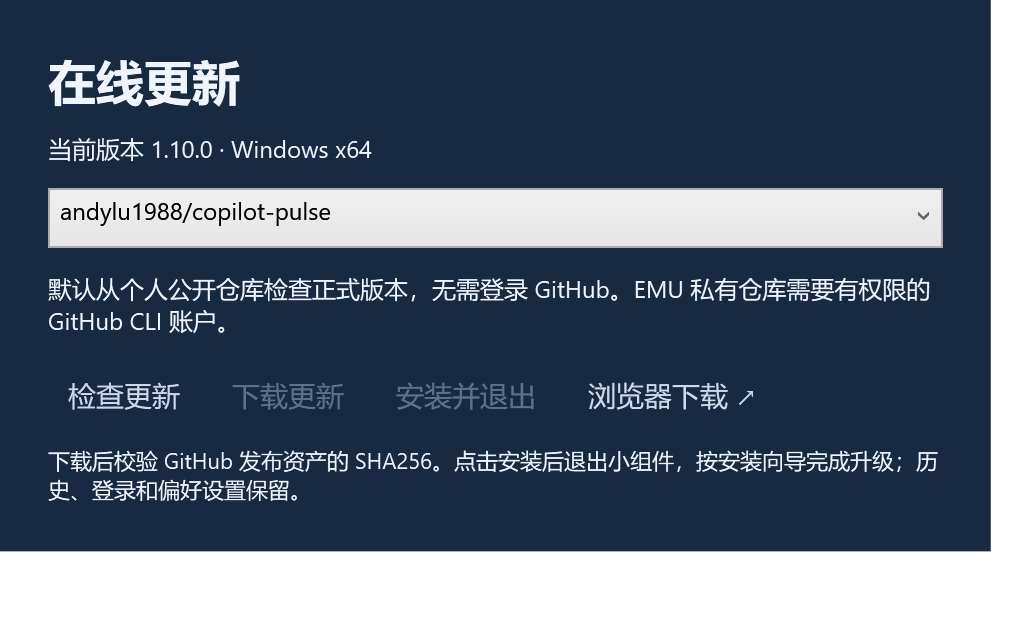
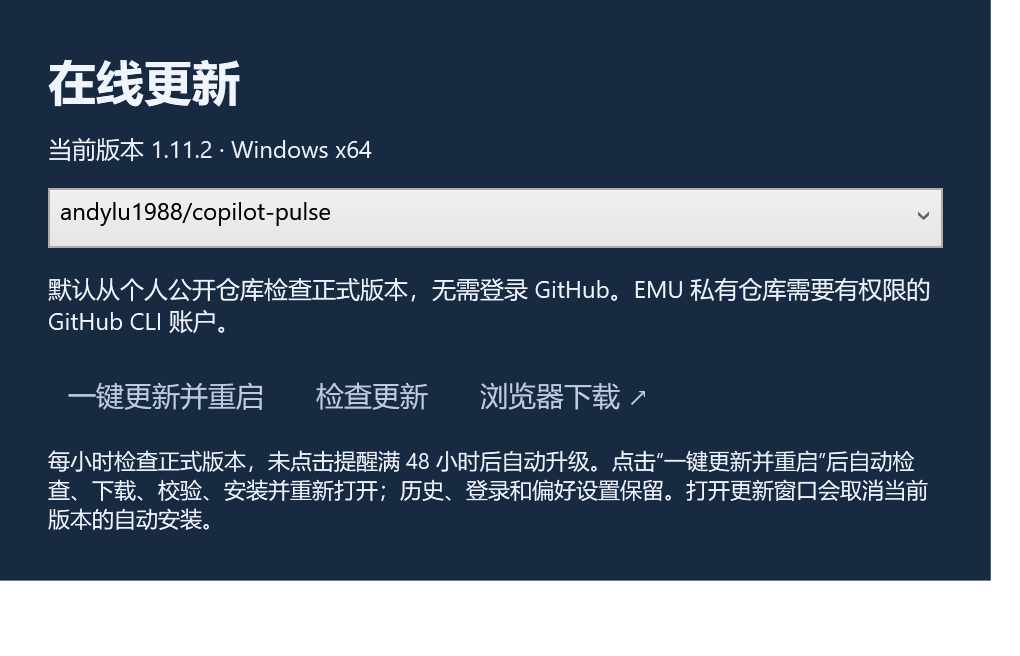
Fix runtime version and complete updates in one click

diff --git a/UpdateWindow.cs b/UpdateWindow.cs
@@ -1,71 +1,122 @@
 using System;
 using System.Diagnostics;
 using System.Threading;
+using System.Threading.Tasks;
+using System.IO;
 using System.Windows;
 using System.Windows.Controls;
 using System.Windows.Media;
 
 namespace CopilotPulse;
 
+internal sealed record UpdateActions(
+    Func<string, CancellationToken, Task<UpdateRelease?>> Check,
+    Func<UpdateRelease, CancellationToken, Task<string>> Download,
+    Func<string, UpdateRelease, Task> Apply,
+    Action Complete);
+
 internal sealed class UpdateWindow : Window
 {
     private readonly UpdateService service = new();
     private readonly CancellationTokenSource cancel = new();
     private readonly TextBlock status = new() { TextWrapping = TextWrapping.Wrap, Margin = new Thickness(0,12,0,12) };
-    private readonly Button check = new(), download = new(), install = new();
+    private readonly Button check = new(), install = new();
+    private readonly ComboBox repo;
+    private readonly UpdateActions actions;
+    private bool busy, applying;
+    internal Task? PendingUpdate { get; private set; }
     private UpdateRelease? release;
     private string? installer;
     private readonly Preferences preferences;
-    internal UpdateWindow(Preferences preferences, UpdateRelease? initialRelease = null, string? initialInstaller = null)
+    internal UpdateWindow(Preferences preferences, UpdateRelease? initialRelease = null, string? initialInstaller = null, UpdateActions? actions = null)
     {
         this.preferences = preferences;
+        this.actions = actions ?? new UpdateActions(service.CheckAsync, service.DownloadAsync,
+            (path, available) => UpdateHandoff.LaunchAsync(path, available), () => Application.Current.Shutdown());
         Title = UiText.T("Copilot Pulse · 在线更新", "Copilot Pulse · Online updates"); Icon = BrandIcon.Window;
         Width = 510; SizeToContent = SizeToContent.Height; ResizeMode = ResizeMode.NoResize; WindowStartupLocation = WindowStartupLocation.CenterOwner;
         SetResourceReference(BackgroundProperty, "SkinPanel"); SetResourceReference(ForegroundProperty, "SkinText");
         var body = new StackPanel { Margin = new Thickness(24) }; Content = body;
         body.Children.Add(new TextBlock { Text = UiText.T("在线更新", "Online updates"), FontSize = 24, FontWeight = FontWeights.SemiBold });
         body.Children.Add(new TextBlock { Text = UiText.T($"当前版本 {UpdatePolicy.Current} · Windows x64", $"Current version {UpdatePolicy.Current} · Windows x64"), Margin = new Thickness(0,10,0,12) });
-        var repo = new ComboBox { ItemsSource = new[] { "andylu1988/copilot-pulse", "andylu_microsoft/copilot-pulse" }, SelectedIndex = preferences.UpdateRepository == "andylu_microsoft/copilot-pulse" ? 1 : 0, Background = Brushes.White, Foreground = Brushes.Black, MinHeight = 30 };
+        repo = new ComboBox { ItemsSource = new[] { "andylu1988/copilot-pulse", "andylu_microsoft/copilot-pulse" }, SelectedIndex = preferences.UpdateRepository == "andylu_microsoft/copilot-pulse" ? 1 : 0, Background = Brushes.White, Foreground = Brushes.Black, MinHeight = 30 };
         body.Children.Add(repo);
-        repo.SelectionChanged += (_, _) => { preferences.UpdateRepository = (string)repo.SelectedItem; if (!App.Demo && !App.Smoke) Store.Write("preferences.json", preferences); release = null; installer = null; download.IsEnabled = false; install.IsEnabled = false; status.Text = UiText.T("请选择检查更新。", "Select Check for updates."); };
+        repo.SelectionChanged += (_, _) => { preferences.UpdateRepository = (string)repo.SelectedItem; if (!App.Demo && !App.Smoke) Store.Write("preferences.json", preferences); release = null; installer = null; install.IsEnabled = true; status.Text = UiText.T("请选择检查更新。", "Select Check for updates."); };
         body.Children.Add(status);
         status.Text = UiText.T("默认从个人公开仓库检查正式版本，无需登录 GitHub。EMU 私有仓库需要有权限的 GitHub CLI 账户。", "Checks stable releases from the public personal repository without GitHub sign-in. The private EMU mirror needs an authorized GitHub CLI account.");
         var buttons = new WrapPanel(); body.Children.Add(buttons);
         void Add(Button button, string zh, string en) { button.Content = UiText.T(zh,en); button.Padding = new Thickness(10,8,10,8); button.Margin = new Thickness(0,0,6,8); buttons.Children.Add(button); }
-        Add(check,"检查更新","Check for updates"); Add(download,"下载更新","Download"); Add(install,"安装并重启","Install and restart");
-        download.IsEnabled = install.IsEnabled = false;
+        Add(install,"一键更新并重启","Update and restart"); Add(check,"检查更新","Check for updates");
         var browser = new Button(); Add(browser,"浏览器下载 ↗","Browser download ↗");
         browser.Click += (_, _) => Process.Start(new ProcessStartInfo(UpdatePolicy.ReleasePage(preferences.UpdateRepository)) { UseShellExecute = true });
-        body.Children.Add(new TextBlock { Text = UiText.T("每小时检查正式版本，未点击提醒满 48 小时后自动升级。点击安装后保存并关闭小组件，安装完成自动重新打开；历史、登录和偏好设置保留。打开更新窗口会取消当前版本的自动安装。", "Checks hourly. Unopened notices install automatically after 48 hours. Install saves and closes the widget, verifies SHA256, then reopens it after setup. History, sign-in and preferences are retained. Opening updates cancels automatic installation for the current version."), FontSize = 11, TextWrapping = TextWrapping.Wrap });
+        body.Children.Add(new TextBlock { Text = UiText.T("每小时检查正式版本，未点击提醒满 48 小时后自动升级。点击“一键更新并重启”后自动检查、下载、校验、安装并重新打开；历史、登录和偏好设置保留。打开更新窗口会取消当前版本的自动安装。", "Checks hourly. Unopened notices install automatically after 48 hours. Update and restart checks, downloads and verifies SHA256, then silently installs and reopens the widget. History, sign-in and preferences are retained. Opening updates cancels automatic installation for the current version."), FontSize = 11, TextWrapping = TextWrapping.Wrap });
         check.Click += async (_, _) =>
         {
-            check.IsEnabled = repo.IsEnabled = download.IsEnabled = install.IsEnabled = false; release = null; installer = null;
-            status.Text = UiText.T("正在检查…","Checking…");
-            try { release = await service.CheckAsync(preferences.UpdateRepository, cancel.Token); if (!cancel.IsCancellationRequested) { status.Text = release == null ? UiText.T("当前已是最新正式版本。","You have the latest stable version.") : UiText.T($"新版本 {release.Version} 可用。", $"Version {release.Version} is available."); download.IsEnabled = release != null; } }
-            catch (Exception) { if (!cancel.IsCancellationRequested) status.Text = UiText.T("暂时无法检查：请确认网络、仓库访问权限及 GitHub CLI 登录账户，或点击浏览器下载。", "Unable to check. Verify network, repository access and GitHub CLI account, or use browser download."); }
-            finally { check.IsEnabled = repo.IsEnabled = true; }
+            if (busy) return;
+            SetBusy(true); release = null; installer = null;
+            status.Text = UiText.T("正在检查…", "Checking…");
+            try
+            {
+                release = await this.actions.Check(preferences.UpdateRepository, cancel.Token);
+                if (!cancel.IsCancellationRequested) status.Text = release == null
+                    ? UiText.T("当前已是最新正式版本。", "You have the latest stable version.")
+                    : UiText.T($"新版本 {release.Version} 可用，点击一键更新。", $"Version {release.Version} is available. Select Update and restart.");
+            }
+            catch (Exception) { if (!cancel.IsCancellationRequested) status.Text = UiText.T("检查失败，请检查网络或仓库权限后重试。", "Check failed. Verify network or repository access and retry."); }
+            finally { SetBusy(false); }
         };
-        download.Click += async (_, _) =>
-        {
-            if (release == null) return;
-            download.IsEnabled = check.IsEnabled = repo.IsEnabled = false; status.Text = UiText.T("正在下载并校验…", "Downloading and verifying…");
-            try { installer = await service.DownloadAsync(release, cancel.Token); if (!cancel.IsCancellationRequested) { status.Text = UiText.T("校验通过，点击安装开始升级。", "Verified. Select Install to upgrade."); install.IsEnabled = true; } }
-            catch (Exception) { if (!cancel.IsCancellationRequested) { status.Text = UiText.T("下载或校验失败，请重试或使用浏览器下载。", "Download or verification failed. Retry or use browser download."); download.IsEnabled = true; } }
-            finally { check.IsEnabled = repo.IsEnabled = true; }
-        };
-        install.Click += async (_, _) =>
-        {
-            if (installer == null || release == null) return;
-            install.IsEnabled = download.IsEnabled = check.IsEnabled = repo.IsEnabled = false;
-            try { await UpdateHandoff.LaunchAsync(installer, release); Application.Current.Shutdown(); }
-            catch (Exception) { status.Text = UiText.T("无法启动安装，请重新下载。", "Unable to launch installer. Download again."); check.IsEnabled = repo.IsEnabled = true; }
-        };
+        install.Click += (_, _) => PendingUpdate = UpdateAsync();
         if (initialRelease != null && initialRelease.Repository == UpdatePolicy.Repository(preferences.UpdateRepository))
         {
             release = initialRelease; installer = initialInstaller;
             status.Text = UiText.T($"新版本 {release.Version} 可用。", $"Version {release.Version} is available.");
-            download.IsEnabled = installer == null; install.IsEnabled = installer != null;
+            install.IsEnabled = true;
         }
+        Closing += (_, e) => { if (applying) e.Cancel = true; };
         Closed += (_, _) => cancel.Cancel();
+    }    private void SetBusy(bool value)
+    {
+        busy = value;
+        check.IsEnabled = repo.IsEnabled = install.IsEnabled = !value;
+    }
+    private async Task UpdateAsync()
+    {
+        if (busy) return;
+        SetBusy(true);
+        string phase = "check";
+        try
+        {
+            status.Text = UiText.T("正在检查最新版本…", "Checking the latest release…");
+            var latest = await actions.Check(preferences.UpdateRepository, cancel.Token);
+            if (cancel.IsCancellationRequested) return;
+            if (latest == null)
+            {
+                status.Text = UiText.T("当前已是最新正式版本，无需更新。", "You already have the latest stable version.");
+                return;
+            }
+            if (release != latest) installer = null;
+            release = latest;
+            phase = "download";
+            status.Text = UiText.T($"正在下载并校验 {latest.Version}…", $"Downloading and verifying {latest.Version}…");
+            if (installer == null || !File.Exists(installer)) installer = await actions.Download(latest, cancel.Token);
+            if (cancel.IsCancellationRequested) return;
+            phase = "install";
+            applying = true;
+            status.Text = UiText.T("即将安装并自动重启，请稍候…", "Installing and restarting automatically…");
+            await actions.Apply(installer, latest);
+            applying = false;
+            actions.Complete();
+        }
+        catch (Exception)
+        {
+            installer = null;
+            if (!cancel.IsCancellationRequested) status.Text = phase switch
+            {
+                "check" => UiText.T("检查失败，请检查网络或仓库权限后重试。", "Check failed. Verify network or repository access and retry."),
+                "download" => UiText.T("下载或校验失败，当前版本未修改。点击一键更新重试。", "Download or verification failed; your installed version is unchanged. Retry Update and restart."),
+                _ => UiText.T("无法启动安装，当前客户端保留。点击一键更新重试。", "Unable to start setup; the current client is retained. Retry Update and restart.")
+            };
+        }
+        finally { applying = false; SetBusy(false); }
     }
 }

diff --git a/UpdateHandoff.cs b/UpdateHandoff.cs
@@ -7,7 +7,7 @@ using System.Threading.Tasks;
 
 namespace CopilotPulse;
 
-internal sealed record UpdateTicket(int ParentId, DateTime ParentStartedUtc, string Application, string Installer, string Digest, string[] RestartArguments);
+internal sealed record UpdateTicket(int ParentId, DateTime ParentStartedUtc, string Application, string Installer, string Digest, string ExpectedVersion, string[] RestartArguments);
 
 internal static class UpdateHandoff
 {
@@ -21,7 +21,7 @@ internal static class UpdateHandoff
         await Task.Run(() => CopyRuntime(AppContext.BaseDirectory, stage));
         using var parent = Process.GetCurrentProcess();
         string ticketPath = Path.Combine(stage, "update-ticket.json");
-        File.WriteAllText(ticketPath, JsonSerializer.Serialize(new UpdateTicket(parent.Id, parent.StartTime.ToUniversalTime(), application, Path.GetFullPath(installer), release.Digest, reviewArguments ?? Array.Empty<string>())));
+        File.WriteAllText(ticketPath, JsonSerializer.Serialize(new UpdateTicket(parent.Id, parent.StartTime.ToUniversalTime(), application, Path.GetFullPath(installer), release.Digest, release.Version.ToString(), reviewArguments ?? Array.Empty<string>())));
         var start = new ProcessStartInfo(Path.Combine(stage, "CopilotPulse.exe")) { UseShellExecute = false, CreateNoWindow = true, WorkingDirectory = stage };
         start.ArgumentList.Add("--apply-update"); start.ArgumentList.Add(ticketPath);
         using var helper = Process.Start(start) ?? throw new IOException("Update helper unavailable.");
@@ -76,14 +76,23 @@ internal static class UpdateHandoff
             using var setup = Process.Start(start) ?? throw new IOException("Installer unavailable.");
             // Never kill a running installer or launch a client while files are being replaced.
             await setup.WaitForExitAsync();
-            File.WriteAllText(ticketPath + ".result", "setup-exit=" + setup.ExitCode);
+            if (setup.ExitCode != 0) throw new IOException("Installer exited with code " + setup.ExitCode);
+            if (!Version.TryParse(ticket.ExpectedVersion, out var expected) || !UpdatePolicy.InstalledVersionMatches(ticket.Application, expected))
+                throw new IOException("Installed version does not match the requested release.");
+            File.WriteAllText(ticketPath + ".installed-version", expected.ToString());
+            File.WriteAllText(ticketPath + ".result", "setup-exit=0");
             Restart(ticket.Application, ticket.RestartArguments);
-            return setup.ExitCode;
+            return 0;
         }
         catch (Exception exception)
         {
             try { File.WriteAllText(ticketPath + ".result", "update-failed=" + exception.GetType().Name); } catch { }
-            if (parentExited && ticket != null) { try { Restart(ticket.Application, ticket.RestartArguments); } catch { } }
+            if (parentExited && ticket != null)
+            {
+                try { Restart(ticket.Application, ticket.RestartArguments); } catch { }
+                if (ticket.RestartArguments.Length == 0) System.Windows.MessageBox.Show(
+                    UiText.T("更新未完成：安装失败或安装后的版本不匹配。客户端已重新打开，请重试在线更新。", "Update did not complete: setup failed or the installed version did not match. The client has reopened; please retry."), "Copilot Pulse");
+            }
             return 1;
         }
     }

diff --git a/MainWindow.SettingsReview.cs b/MainWindow.SettingsReview.cs
@@ -119,6 +119,29 @@ public partial class MainWindow
         updateWindow!.Close();
         var updateReview = new UpdateWindow(preferences) { Owner = this }; updateReview.Show(); await Task.Delay(120);
         CaptureControl(updateReview, Path.Combine(directory, "online-update.png")); updateReview.Close();
+        var expectedVersion = UpdatePolicy.NormalizeVersion(typeof(MainWindow).Assembly.GetName().Version!);
+        Check("local display matches actual application assembly", UpdatePolicy.Current == expectedVersion);
+        var events = new List<string>();
+        var candidate = new UpdateRelease(new Version(1,12,0), "v1.12.0", preferences.UpdateRepository, "review.exe", "", "");
+        var reviewPath = Path.Combine(directory, "review-download.bin");
+        var steps = new UpdateActions(
+            (_, _) => { events.Add("check"); return Task.FromResult<UpdateRelease?>(candidate); },
+            (_, _) => { events.Add("download"); File.WriteAllText(reviewPath,"demo"); return Task.FromResult(reviewPath); },
+            (_, _) => { events.Add("install"); return Task.CompletedTask; },
+            () => events.Add("restart"));
+        var oneClick = new UpdateWindow(preferences, actions: steps) { Owner = this }; oneClick.Show();
+        var oneButton = Nodes<Button>(oneClick).Single(b => b.Content?.ToString() == "一键更新并重启");
+        oneButton.RaiseEvent(new RoutedEventArgs(Button.ClickEvent)); await oneClick.PendingUpdate!;
+        Check("single click checks downloads installs and restarts in order", string.Join(",",events) == "check,download,install,restart");
+        Check("old separate download button removed", !Nodes<Button>(oneClick).Any(b => b.Content?.ToString() == "下载更新"));
+        oneClick.Close(); events.Clear();
+        var latest = new UpdateWindow(preferences, actions: steps with { Check = (_,_) => Task.FromResult<UpdateRelease?>(null) }) {Owner=this}; latest.Show();
+        Nodes<Button>(latest).Single(b => b.Content?.ToString() == "一键更新并重启").RaiseEvent(new RoutedEventArgs(Button.ClickEvent)); await latest.PendingUpdate!;
+        Check("already current does not download or restart", events.Count == 0 && Texts(latest).Any(t => t.Contains("无需更新"))); latest.Close();
+        var failed = new UpdateWindow(preferences, actions: steps with { Download = (_,_) => Task.FromException<string>(new IOException("review")) }) {Owner=this}; failed.Show();
+        var retryButton=Nodes<Button>(failed).Single(b => b.Content?.ToString() == "一键更新并重启");
+        retryButton.RaiseEvent(new RoutedEventArgs(Button.ClickEvent)); await failed.PendingUpdate!;
+        Check("download failure retains client and permits retry", !events.Contains("install") && retryButton.IsEnabled && Texts(failed).Any(t=>t.Contains("当前版本未修改"))); failed.Close();
         Check("About exists in three-dot menu", BuildSettingsMenu().Items.OfType<MenuItem>().Any(i => i.Header?.ToString() == "关于…"));
         bool acknowledgedBeforeAbout = updateState.Acknowledged;
         OpenAbout(); await aboutWindow!.CheckLatestAsync(); await Task.Delay(100);

diff --git a/UpdateService.cs b/UpdateService.cs
@@ -15,7 +15,15 @@ public sealed record UpdateRelease(Version Version, string Tag, string Repositor
 
 public static class UpdatePolicy
 {
-    public static readonly Version Current = new(1, 11, 0);
+    public static readonly Version Current = NormalizeVersion(typeof(UpdatePolicy).Assembly.GetName().Version ?? throw new InvalidOperationException("Application version unavailable."));
+    public static Version NormalizeVersion(Version version) => new(version.Major, version.Minor, Math.Max(0, version.Build));
+    public static bool InstalledVersionMatches(string application, Version expected)
+    {
+        string library = Path.Combine(Path.GetDirectoryName(application)!, "CopilotPulse.dll");
+        if (!File.Exists(library)) return false;
+        var info = FileVersionInfo.GetVersionInfo(library);
+        return NormalizeVersion(new Version(info.FileMajorPart, info.FileMinorPart, info.FileBuildPart)) == NormalizeVersion(expected);
+    }
     public static string Repository(string value) => value == "andylu_microsoft/copilot-pulse" ? value : "andylu1988/copilot-pulse";
     public static string ReleasePage(string repository) => "https://github.com/" + Repository(repository) + "/releases/latest";
     public static UpdateRelease? Parse(string json, string repository, Version current)
@@ -66,7 +74,7 @@ internal sealed class UpdateService
         else
         {
             using var request = new HttpRequestMessage(HttpMethod.Get, $"https://api.github.com/repos/{repository}/releases/latest");
-            request.Headers.UserAgent.ParseAdd("CopilotPulse/1.11.0");
+            request.Headers.UserAgent.ParseAdd("CopilotPulse/" + UpdatePolicy.Current);
             using var response = await http.SendAsync(request, cancel);
             response.EnsureSuccessStatusCode();
             json = await response.Content.ReadAsStringAsync(cancel);

diff --git a/tests/HistoryTests/Program.cs b/tests/HistoryTests/Program.cs
@@ -169,6 +169,11 @@ Check("amount threshold percent is independent of quota", SettingsPolicy.QuotaPe
 Check("unknown quota remains unknown", SettingsPolicy.QuotaPercent(new Account { Cost = 200, Percent = 50 }) == null);
 options.NumberFont = "bogus"; SettingsPolicy.Normalize(options); Check("invalid font safely falls back", options.NumberFont == "skin");
 foreach (string font in SettingsPolicy.NumberFonts) { options.NumberFont = font; SettingsPolicy.Normalize(options); Check("font persists " + font, options.NumberFont == font); }
+var projectXml = System.Xml.Linq.XDocument.Load(Path.Combine(AppContext.BaseDirectory, "../../../../../CopilotPulse.csproj"));
+var declaredVersion = Version.Parse(projectXml.Descendants("Version").Single().Value);
+Check("runtime version follows project version", UpdatePolicy.Current == declaredVersion);
+Check("four part assembly version normalized", UpdatePolicy.NormalizeVersion(new Version(1,11,2,0)).ToString() == "1.11.2");
+Check("missing installed library cannot report success", !UpdatePolicy.InstalledVersionMatches(Path.Combine(directory,"CopilotPulse.exe"), declaredVersion));
 string ReleaseJson(string version, string url, string digest, bool preview = false) => System.Text.Json.JsonSerializer.Serialize(new { draft = false, prerelease = preview, tag_name = "v" + version, assets = new[] { new { name = "CopilotPulse-Setup-" + version + "-x64.exe", browser_download_url = url, digest, size = 1024 } } });
 string releaseUrl = "https://github.com/andylu_microsoft/copilot-pulse/releases/download/v1.12.0/CopilotPulse-Setup-1.12.0-x64.exe";
 string validDigest = "sha256:" + new string('a',64);

diff --git a/MainWindow.xaml.cs b/MainWindow.xaml.cs
@@ -85,7 +85,7 @@ public partial class MainWindow : Window
             {
                 string setup = App.UpdateReviewInstaller;
                 string digest = Convert.ToHexString(System.Security.Cryptography.SHA256.HashData(File.ReadAllBytes(setup)));
-                var reviewRelease = new UpdateRelease(new Version(1,12,0), "v1.12.0", preferences.UpdateRepository, Path.GetFileName(setup), "", digest);
+                var reviewRelease = new UpdateRelease(UpdatePolicy.Current, "v" + UpdatePolicy.Current, preferences.UpdateRepository, Path.GetFileName(setup), "", digest);
                 await UpdateHandoff.LaunchAsync(setup, reviewRelease, new[] { "--demo", "--capture", Path.Combine(Path.GetDirectoryName(setup)!, "restarted.png") });
                 Application.Current.Shutdown(); return;
             }

diff --git a/MainWindow.Updates.cs b/MainWindow.Updates.cs
@@ -25,6 +25,12 @@ public partial class MainWindow
     {
         if (App.Demo || App.Smoke) return;
         updateState = Store.Read<AutoUpdateState>("update-state.json") ?? new();
+        if (!Version.TryParse(updateState.Version, out var pending) || pending <= UpdatePolicy.Current)
+        {
+            AutoUpdatePolicy.Observe(updateState, null, preferences.UpdateRepository, DateTimeOffset.UtcNow);
+            updateState.LastAttemptUtc = null;
+            Store.Write("update-state.json", updateState);
+        }
         RefreshUpdateBadge();
         updateTimer.Tick += async (_, _) => await PollUpdatesAsync();
         updateTimer.Start();

diff --git a/README.md b/README.md
@@ -4,7 +4,7 @@
 
 Copilot Pulse 是一个 Windows 桌面小组件，把 Microsoft 内部 Copilot Consumption 页面的本月用量、企业明细和历史趋势集中到一张可随时查看的卡片中。可以展开查看账户明细，也可以收成一个带动态皮肤的迷你数字框。
 
-**v1.11.1 · Windows 10 1809+ / Windows 11 · x64 · 22 套内置皮肤 + 自定义背景**
+**v1.11.2 · Windows 10 1809+ / Windows 11 · x64 · 22 套内置皮肤 + 自定义背景**
 
 [下载安装（个人仓库）](https://github.com/andylu1988/copilot-pulse/releases/latest) · [下载安装（EMU 仓库）](https://github.com/andylu_microsoft/copilot-pulse/releases/latest) · [详细使用指南](docs/USER-GUIDE.zh-CN.md) · [版本记录](CHANGELOG.md)
 
@@ -25,7 +25,7 @@ Copilot Pulse 是一个 Windows 桌面小组件，把 Microsoft 内部 Copilot C
 | 换肤与动效 | 矩阵雨、液晶、赛博朋克、雷达、机甲、辉光管、电子墨水等，强度与速度可调。 |
 | 自定义背景 | 导入本机 PNG/JPG/BMP，调整遮罩深浅和裁切焦点。 |
 | 桌面常驻 | 拖动摆放、切换置顶、收起到托盘，隐藏后仍可继续采集。 |
-| 在线更新 | 每小时检查正式版本，主界面“迷你”左侧显示新版本提醒；未点击满 48 小时自动安装并重启。默认使用个人公开仓库，无需登录 GitHub。 |
+| 在线更新 | 一键完成下载、校验、安装和客户端重启；每小时检查正式版本，主界面“迷你”左侧显示新版本提醒；未点击满 48 小时自动安装并重启。默认使用个人公开仓库，无需登录 GitHub。 |
 | 数字字体 | 跟随皮肤或选择六种字体，完整 / 紧凑 / 迷你模式立即生效。 |
 | 阈值进度 | 主金额下持续显示金额阈值进度或最高账户配额百分比，低于警告线也能看到。 |
 | 本机历史 | 按月保存，重启后继续查看；升级与卸载保留历史和设置。 |
@@ -53,7 +53,7 @@ Copilot Pulse 是一个 Windows 桌面小组件，把 Microsoft 内部 Copilot C
 
 ## 下载与首次使用
 
-1. 从 [最新版本](https://github.com/andylu1988/copilot-pulse/releases/latest) 下载 `CopilotPulse-Setup-1.11.0-x64.exe`。
+1. 从 [最新版本](https://github.com/andylu1988/copilot-pulse/releases/latest) 下载 `CopilotPulse-Setup-1.11.2-x64.exe`。
 2. 双击完成当前用户安装，可选择创建桌面快捷方式。默认位置为 `%LOCALAPPDATA%\Programs\CopilotPulse`。
 3. 启动后组件尝试 Windows 主账户 SSO。如需登录，点击“连接 Microsoft 账户”，完成账户选择与验证。
 4. 确认账户和月份，等待读取成功。点击“历史趋势”打开图表，点击“换肤”选择外观。
@@ -189,9 +189,13 @@ dotnet run --project .\tests\HistoryTests\HistoryTests.csproj -- .\work\history-
 
 版本见 [CHANGELOG.md](CHANGELOG.md)，素材见 [矩阵背景](Assets/MATRIX-ART.md) 与 [当前应用图标](Assets/SELECTED-DESKTOP-ICON.md)。
 
+点击 **⋯ → 在线更新 → 一键更新并重启**，自动下载、校验、安装并重新打开客户端。当前版本来自实际运行程序，安装后会核对目标版本；已是最新版则不重复下载。
+
 ## English
 
 **Copilot Pulse puts your Copilot usage on the Windows desktop.** This unofficial widget reads the Microsoft internal Copilot Consumption page, with automatic refresh, enterprise details, local history, five time ranges, cumulative and change charts, three display modes, 22 built-in skins, and custom backgrounds.
+
+Use **⋯ → Online updates → Update and restart** for a single-click check, download, verification, silent installation and client restart. The local version comes from the running assembly, and setup verifies the installed target version. Up-to-date clients do not download again.
 
 Download the per-user x64 installer from [Releases](https://github.com/andylu1988/copilot-pulse/releases/latest). It includes the .NET runtime and installs WebView2 if needed. The installer is currently unsigned. The personal repository is public. Access to the internal source site is required. Windows SSO is attempted, but account selection, MFA, or organizational policy may require interactive sign-in. Every user signs in with their own account.
 

diff --git a/docs/USER-GUIDE.zh-CN.md b/docs/USER-GUIDE.zh-CN.md
@@ -284,7 +284,7 @@ WebView2 登录会话另行管理，常规桌面运行位置为 `%LOCALAPPDATA%\
 
 ## 10. 功能边界与参考
 
-当前版本是桌面悬浮组件与托盘入口，没有嵌入开始按钮所在任务栏的数字栏位，也没有内置预算告警、免打扰时段、CSV 导出或界面语言切换。退出后不采集。
+当前版本是桌面悬浮组件与托盘入口，没有嵌入开始按钮所在任务栏的数字栏位，支持阈值警告和中英文设置，暂不支持免打扰时段或 CSV 导出。退出后不采集。
 
 这是非官方工具。介绍结构参考 [mcaps-microsoft/copilot-usage-monitor](https://github.com/mcaps-microsoft/copilot-usage-monitor)，功能、SSO、安装与存储说明按 Copilot Pulse 实际实现编写。构建方法见 [项目首页](../README.md)，素材见 [矩阵背景](../Assets/MATRIX-ART.md) 与 [当前图标](../Assets/SELECTED-DESKTOP-ICON.md)。
 
@@ -294,11 +294,9 @@ WebView2 登录会话另行管理，常规桌面运行位置为 `%LOCALAPPDATA%\
 
 启用金额警告后，主金额下面显示本月合计相对金额阈值的比例，例如 $600 / $1,000 = 60%。超过阈值允许显示大于 100%。这表示自定义警告线进度。配额模式显示最高单账户的 Cost / Monthly limit；不会把不同账户配额简单相加。页面没有数字限额时显示不可计算。提示在完整、紧凑与迷你模式都会刷新，达到警告线后仍另有警告和通知。
 
-设置 → 在线更新，默认选择个人公开仓库，点击“检查更新”。无需安装 GitHub CLI 或登录 GitHub。应用只选择比当前更高的正式版本，下载并校验 SHA256 后，点击“安装并退出”完成升级。若选择 EMU 私有镜像，需要已登录且有访问权限的 GitHub CLI 账户；应用不保存其凭据。也可以点击“浏览器下载”打开 Releases。Microsoft 页面 SSO 与 GitHub 登录独立。
+设置 → 在线更新，默认选择个人公开仓库。点击“一键更新并重启”，应用自动检查最新正式版本、下载、校验 SHA256、静默安装并重新启动，无需手动运行安装器。也可单独检查更新；已是最新版时不会重新下载。版本号来自当前运行的程序集，安装后再次核对目标版本。
 
-点击“下载更新”后校验 GitHub 发布资产的 SHA256。校验通过才启用“安装并退出”；点击后退出组件并打开安装向导，按向导完成覆盖升级，完成后启动新版本。历史、登录状态和偏好设置存放在安装目录外，会保留。发布需要带正确名称的 Windows x64 安装器和 GitHub SHA256 摘要；旧版本没有摘要时使用浏览器下载。
-
-更新不会在后台自动安装。开发者访问密钥不会包含在安装包中。无仓库权限的用户需要项目维护者授予访问权限。
+历史、登录和偏好设置存放在安装目录外，会保留；客户端需要短暂重启，Windows 不需要重启。EMU 私有镜像需要已登录且有访问权限的 GitHub CLI 账户，也可用浏览器下载。应用每小时检查；未打开提醒满48小时自动更新，打开提醒会取消该版本的无人值守安装。检查或下载失败不会关闭客户端，可点击一键更新重试。
 
 ![在线更新窗口，公开仓库无需登录](screenshots/online-update.png)
 

diff --git a/docs/automatic-updates.md b/docs/automatic-updates.md
@@ -1,5 +1,9 @@
 # 自动更新 / Automatic updates
 
+从 v1.11.2 起，“一键更新并重启”自动完成检查、下载、SHA256 校验、静默安装和客户端重启。版本号读取实际程序集，安装助手核对安装后的版本才报告成功；已是最新版时不再下载。更新不需要重启 Windows。
+
+From v1.11.2, **Update and restart** performs the entire check, download, SHA256 verification, silent installation and client restart. Version display and comparisons use the running assembly. The helper verifies the installed version before reporting success. An up-to-date client does not download again; Windows does not need to reboot.
+
 从 v1.11.0 起，应用运行时每小时检查所选仓库的最新正式版本。关闭应用时不会运行额外后台服务；重新打开会按上次检查时间继续检查。版本提醒与首次发现时间保存在数据目录的 `update-state.json`，不会因重启而重置。
 
 发现新版本后，主界面“迷你”左侧出现 **有新版本** 按钮，鼠标悬停可查看版本号和按系统时区显示的自动安装时间。后台预先下载 Windows x64 安装包并校验 GitHub 提供的 SHA256。如果用户一直不打开更新窗口，首次发现满 **48 小时** 后自动升级；打开更新窗口会取消该版本的无人值守安装，用户可选择手动安装。新版本发布后重新开始完整的 48 小时提醒期。

diff --git a/CHANGELOG.md b/CHANGELOG.md
@@ -1,5 +1,13 @@
 # Copilot Pulse
 
+## 1.11.2：版本识别修复与一键更新 / Version fix and one-click updates
+
+- 修复 1.11.1 的显示与更新比较仍写死为 1.11.0：统一读取实际程序集版本，避免升级后重复提示。
+- 一键自动检查、下载、SHA256 校验、静默安装和客户端重启；安装后核对目标版本，失败提示并保留重试入口。
+- Corrects the hardcoded 1.11.0 version in 1.11.1. Display and comparisons now use the running assembly.
+- Update and restart completes download, verification, silent installation and restart in one click; the helper verifies the installed version.
+
+
 ## 1.11.1：更醒目的用量警告
 
 - 完整和紧凑面板在金额下方显示固定琥珀色警告条、警告图标、标题与高对比正文，避免警告混入皮肤背景。达到阈值时主面板进度及迷你进度采用琥珀色，迷你增加警告标识。

diff --git a/docs/screenshots/README.md b/docs/screenshots/README.md
@@ -44,3 +44,8 @@
 新增图的金额、账户与趋势全部虚构。未连接数据源、读取登录资料或修改用户设置及历史。静态矩阵图片展示动画的一帧。
 
 新增英文对应截图及 `threshold-progress-matrix.png` / `threshold-progress-matrix-en.png`：$2,000 阈值、61.73% 进度，尚未达到警告线。所有新图月初 $0、末值 $1,234.56、本月净增长 +$1,234.56；真实历史不补造月初基线。
+
+## v1.11.2 在线更新
+
+- `online-update.png` 更新为实际 1.11.2 控件截图，展示一键检查、下载、校验、安装与重启入口。来自隔离界面验证，未读取真实账户数据。
+- The online update screenshot shows the actual 1.11.2 controls from an isolated UI review, without real account data.
